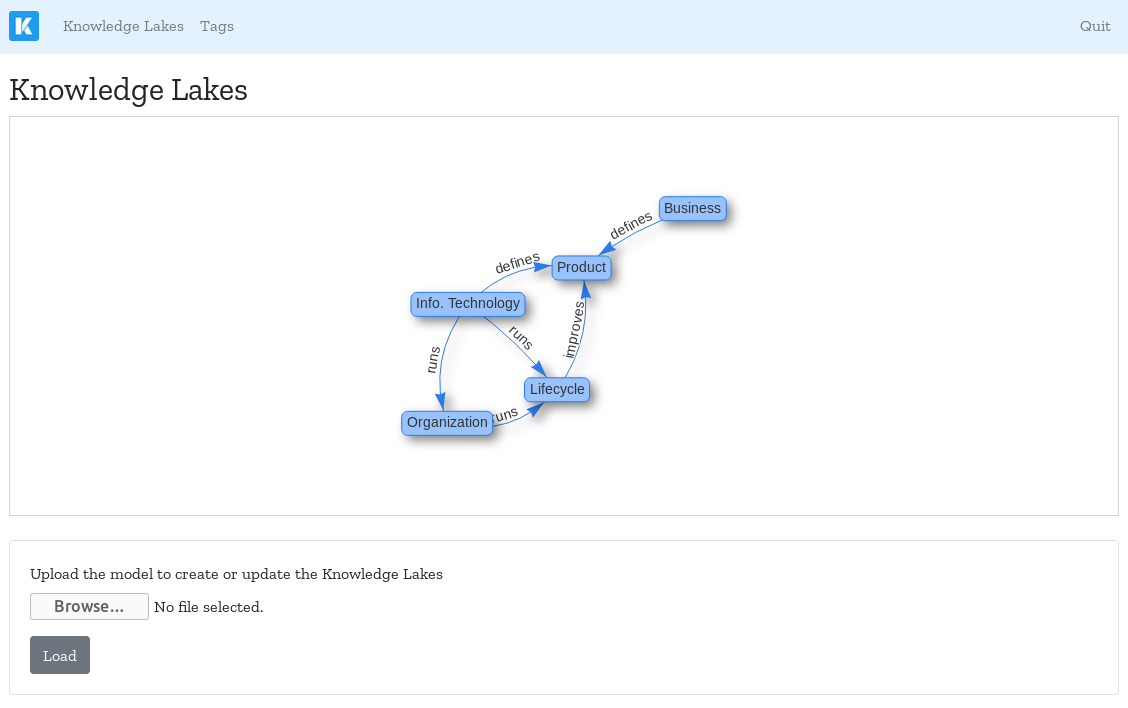
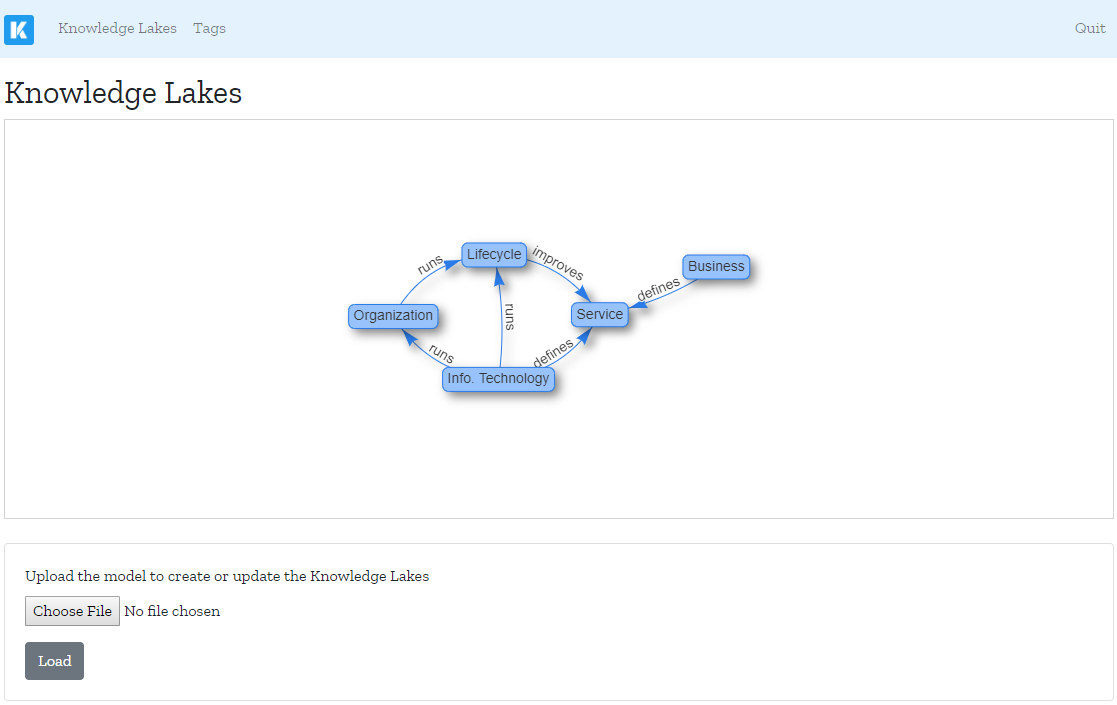
Replaced product by service in the knowledge model example

diff --git a/README.md b/README.md
@@ -1,55 +1,34 @@
 # Klakes
 
-Klakes stands for Knowledge Lakes. It targets organizations interested in 
-mapping their knowledge in consistent "lakes" of information.
+Klakes stands for Knowledge Lakes. It targets organizations interested in mapping their knowledge in consistent "lakes" of information.
 
 ## Installation
 
 ### Requirements
 
-Klakes is an application that runs on top of the Java Virtual Machine (JVM).
-This is the only requirement that needs to be fulfilled. Please, visit 
-[Java.com][2], download the package for your operating system, and follow the 
-installation instructions.
+Klakes is an application that runs on top of the Java Virtual Machine (JVM). This is the only requirement that needs to be fulfilled. Please, visit [Java.com][2], download the package for your operating system, and follow the installation instructions.
 
 ### Execution
 
-To run Klakes, download the latest version of the file `klakes.jar` from the 
-[release page](https://github.com/htmfilho/klakes/releases). Depending on your 
-platform and how Java is installed and configured, you can double-click on the 
-file `klakes.jar` to run it, otherwise open a terminal window and use the 
-following command:
+To run Klakes, download the latest version of the file `klakes.jar` from the [release page](https://github.com/htmfilho/klakes/releases). Depending on your platform and how Java is installed and configured, you can double-click on the file `klakes.jar` to run it, otherwise open a terminal window and use the following command:
 
     $ java -jar klakes.jar
 
-When the application is up and running, it opens a tab in your default web 
-browser. As you can see, Klakes is a web application that doesn't require to be 
-hosted on a server to deliver imediate value, but if the organization requires, 
-it can be easily done because Klakes is a self contained application with all 
-the dependencies included.
+When the application is up and running, it opens a tab in your default web browser. As you can see, Klakes is a web application that doesn't require to be hosted on a server to deliver immediate value, but if the organization requires, it can be easily done because Klakes is a self contained application with all the dependencies included.
 
 ![Screenshot](screenshot.png)
 
 ### Configuration
 
-At first glance, Klakes looks boring because it is not ready to use yet. It is 
-still necessary to load the knowledge model and to configure the access to the 
-wiki. The following steps help you to achieve that:
+At first glance, Klakes looks boring because it is not ready to use yet. It is still necessary to load the knowledge model and to configure the access to the wiki. The following steps help you to achieve that:
 
-1. **Load the Knowledge Model**: visit the Knowledge Model page using the top 
-   menu. Browse your desktop for the knowledge model file -- with the extention 
-   `.json` -- and load it into Klakes. When the load is complete a graph showing 
-   the relationships between the lakes appears.
+1. **Load the Knowledge Model**: visit the Knowledge Model page using the top menu. Browse your desktop for the knowledge model file -- with the extension    `.json` -- and load it into Klakes. When the load is complete a graph showing   the relationships between the lakes appears.
 
-2. **Configure the connection to the Wiki**: when the application runs for the 
-   first time, it generates the file `config.edn` in the same folder where 
-   `klakes.jar` was executed. In that file, set the variable `:wiki-url` with 
-   the URL of Wiki:
-   
+2. **Configure the connection to the Wiki**: when the application runs for the first time, it generates the file `config.edn` in the same folder where `klakes.jar` was executed. In that file, set the variable `:wiki-url` with the URL of Wiki:
+
    `{:wiki-url "https://wiki.mycompany.com"}`
 
-You don't need to restart Klakes to have it working once the configuration is 
-done. Now, you are all set.
+You don't need to restart Klakes to have it working once the configuration is done. Now, you are all set.
 
 ## Usage
 
@@ -61,26 +40,13 @@ A triple is the relationship between two concepts linked by a predicate.
 
 ### Retrieving Content from the Wiki
 
-To retrieve information from the wiki while running in the desktop, Klakes uses 
-your personal Wiki's credentials. These are asked only once and kept in memory 
-while the application is running, then discarded in the shutdown. An 
-authentication form appears when Klakes intends to access the Wiki's API but it 
-doesn't have your credentials yet.
+To retrieve information from the wiki while running in the desktop, Klakes uses your personal Wiki's credentials. These are asked only once and kept in memory while the application is running, then discarded in the shutdown. An authentication form appears when Klakes intends to access the Wiki's API but it doesn't have your credentials yet.
 
-If Klakes is deployed on the server, which is a more protected environment, the 
-configuration file can be used to keep the credentials. It will prevent the 
-authentication form appearing to the end user. Make sure Klakes is accessible 
-only in the network of the organization.
+If Klakes is deployed on the server, which is a more protected environment, the configuration file can be used to keep the credentials. It will prevent the authentication form appearing to the end user. Make sure Klakes is accessible only in the network of the organization.
 
 ## Creating a Knowledge Model
 
-During the [configuration](#configuration) of Klakes you have loaded the 
-knowledge model of your organization into the application. The `json` file 
-contains data defined in [JSON][3] (JavaScript Object Notation) format, which is
-simple to define and read. The file is organized in 3 parts: a list of concepts, 
-a list of predicates, and list of triples. These lists are alfabetically ordered
-and it is important to keep them ordered when adding more elements. To add a new
-concept, use the following structure:
+During the [configuration](#configuration) of Klakes you have loaded the knowledge model of your organization into the application. The `json` file contains data defined in [JSON][3] (JavaScript Object Notation) format, which is simple to define and read. The file is organized in 3 parts: a list of concepts, a list of predicates, and list of triples. These lists are alphabetically ordered and it is important to keep them ordered when adding more elements. To add a new concept, use the following structure:
 
     {
       "label": "business",
@@ -88,7 +54,7 @@ concept, use the following structure:
       "definition": ""
     }
 
-*label* is the identification of the concept in the wiki. 
+*label* is the identification of the concept in the wiki.
 name:
 definition:
 
@@ -113,16 +79,9 @@ subject, predicate, object
 
 Copyright © 2019 Hildeberto Mendonca
 
-This program and the accompanying materials are made available under the
-terms of the Eclipse Public License 2.0 which is available at
-http://www.eclipse.org/legal/epl-2.0.
+This program and the accompanying materials are made available under the terms of the Eclipse Public License 2.0 which is available at http://www.eclipse.org/legal/epl-2.0.
 
-This Source Code may also be made available under the following Secondary
-Licenses when the conditions for such availability set forth in the Eclipse
-Public License, v. 2.0 are satisfied: GNU General Public License as published by
-the Free Software Foundation, either version 2 of the License, or (at your
-option) any later version, with the GNU Classpath Exception which is available
-at https://www.gnu.org/software/classpath/license.html.
+This Source Code may also be made available under the following Secondary Licenses when the conditions for such availability set forth in the Eclipse Public License, v. 2.0 are satisfied: GNU General Public License as published by the Free Software Foundation, either version 2 of the License, or (at your option) any later version, with the GNU Classpath Exception which is available at https://www.gnu.org/software/classpath/license.html.
 
 [1]: http://localhost:3000/lakes
 [2]: https://www.java.com/en/download/manual.jsp
